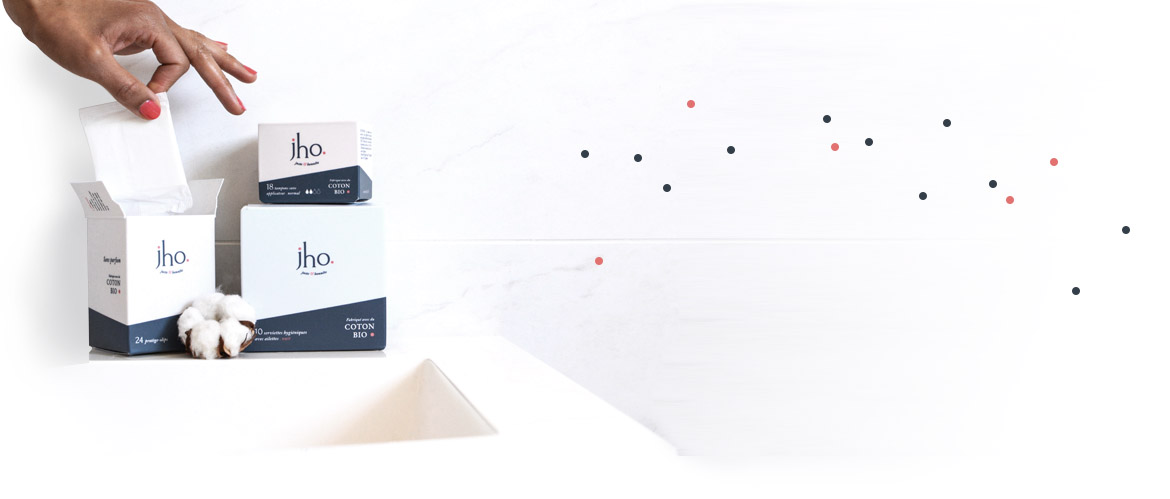
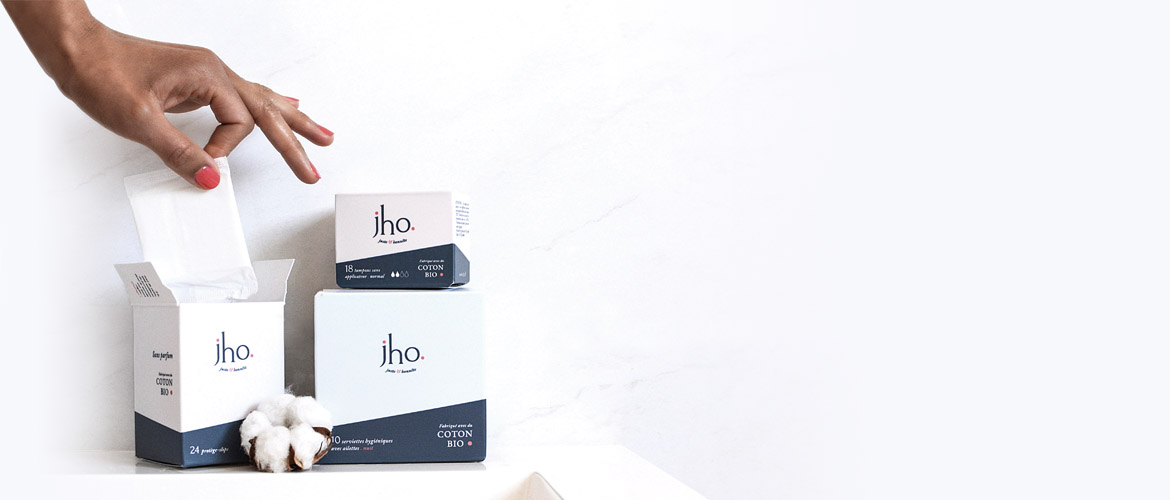
New graphics for background

diff --git a/app/assets/stylesheets/_core.scss b/app/assets/stylesheets/_core.scss
@@ -7,6 +7,7 @@ $foreground-light: rgba($foreground, 0.5);
 $medium-gray: #E1E9ED;
 $light-gray: #eef3f6;
 $light-blue: #e3edf1;
+$top-gray: #f6f8fb;
 $green: #60BD7A;
 $montserrat-font: Montserrat, sans-serif;
 $cardo-font: Cardo, 'Times New Roman', serif;
@@ -50,6 +51,7 @@ $animation-time: 1.2s;
   text-align: center;
 
   #logo {
+    z-index: 10;
     display: inline-block;
     margin-bottom: -63px;
   }
@@ -382,6 +384,18 @@ html.home{
     }
   }
 
+  
+  .right {
+    background-image: image-url('home/dots.png');
+    background-position: center top;
+    background-repeat: no-repeat;
+    padding-top: 100px;
+  }
+
+  .hero-full {
+    background-color: $top-gray;
+  }
+
   @media (max-width: 991px) {
     .hero-full {
       background-image: image-url('home/hero_left.jpg');
@@ -389,10 +403,14 @@ html.home{
       background-size: contain;
       background-repeat: no-repeat;
     }
+
+    .play-col {
+      min-height: 324px !important;
+    }
   }
 
-  @media (min-width: 991px) {
-    .hero {
+  @media (min-width: 1200px) and (min-width: 991px){
+    .hero-full {
       background-image: image-url('home/hero_top.jpg');
       background-position: center top;
       background-size: contain;
@@ -400,15 +418,27 @@ html.home{
     }
   }
 
+  @media (min-width: 991px) and (max-width: 1199px) {
+    .hero-full {
+      background-image: image-url('home/hero_top.jpg');
+      background-position: center top;
+      background-size: cover;
+      background-repeat: no-repeat;
+    }
+  }
+
+
   .hero {
 
     .play-col {
       min-height: 250px;
+      text-align: right;
     }
 
     .play-button {
+      display: inline-block;
       cursor: pointer;
-      margin: 7% auto 0 255px;
+      margin: 10% 0px auto auto !important;
       padding-top: 44px;
     }
 
